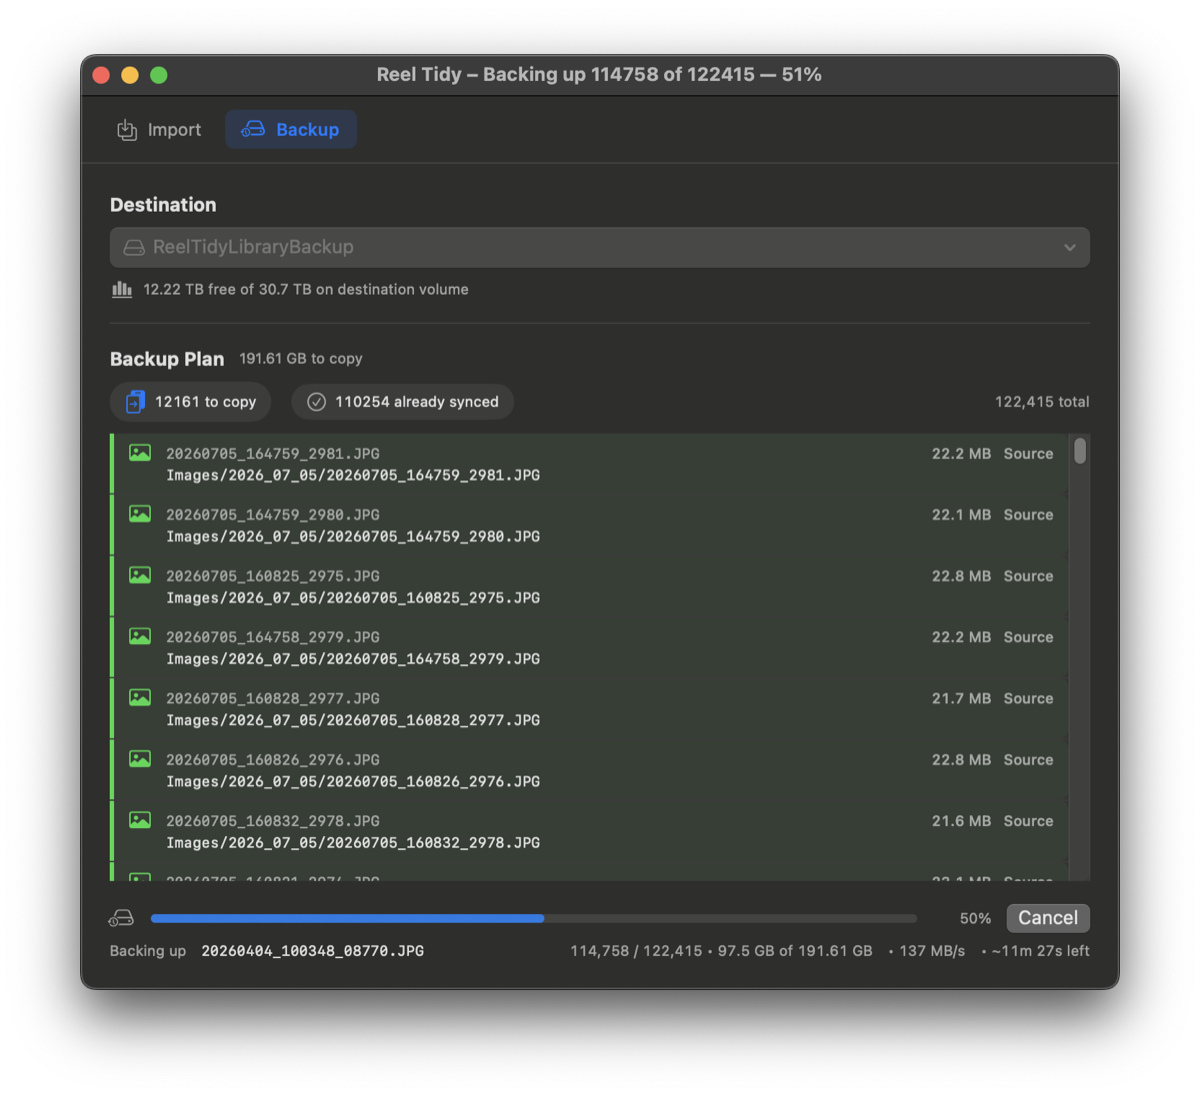
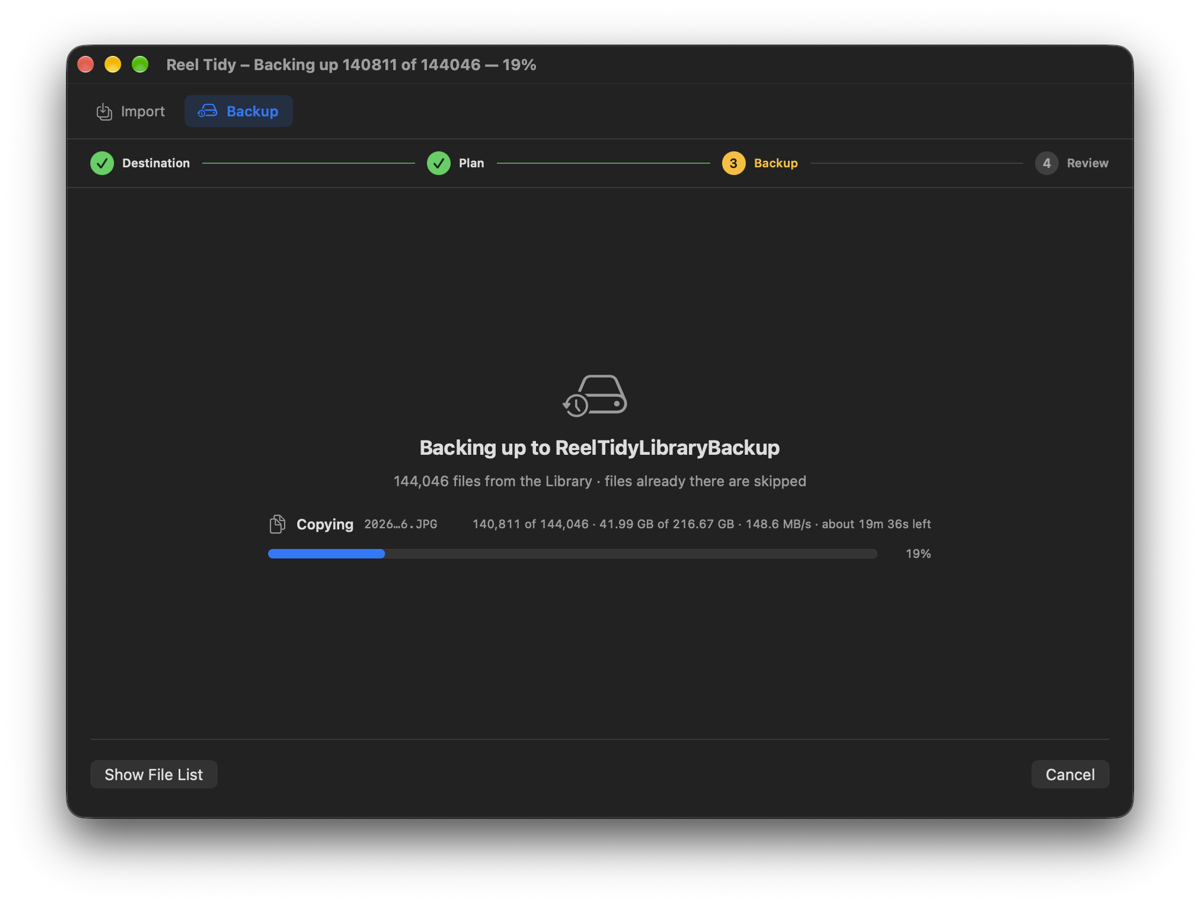
Replace the carousel screenshots with the four-step flow
Re-shot import-progress, source-picker and backup-plan against the
1.2 guided Import / Backup flow (step rail, centred progress hero).
All three are 1200×906 windows on transparency; width/height and alt
text updated to match what the new shots actually show. Slide 1's
headline becomes "Every file. One click." — the old file count came
from the previous capture and no longer appears in the artwork.

diff --git a/index.html b/index.html
@@ -133,12 +133,12 @@
           <div class="carousel__slide" role="group" aria-roledescription="slide" aria-label="1 of 4">
             <div class="carousel__text">
               <p class="carousel__eyebrow">Import</p>
-              <h3>2,686 files. One click.</h3>
+              <h3>Every file. One click.</h3>
               <p class="carousel__sub">Live speed and an honest ETA. Optional compression runs alongside the copy, so a second pass over the shoot costs you nothing.</p>
             </div>
             <div class="carousel__media">
-              <img src="assets/screenshots/import-progress.png" width="1200" height="982"
-                   alt="An import in progress. The window title reads &quot;Reel Tidy — Importing 42 of 2686&quot;. Each JPEG is listed beside the dated path it is being copied to, with a progress bar reporting 426.5 MB/s and about 2 minutes 26 seconds left, and a second bar showing compression running in parallel.">
+              <img src="assets/screenshots/import-progress.png" width="1200" height="906"
+                   alt="An import in progress on the third step of the four-step flow, with Source and Plan ticked off in the rail above. The window title reads &quot;Reel Tidy — Importing 4 of 15 — 24%&quot;. A blue bar reports the copy at 70.4 MB/s with about 4 seconds left, and a purple bar below it shows compression running in parallel, 3 of 4 images done and 37.5 MB smaller so far.">
             </div>
           </div>
 
@@ -161,8 +161,8 @@
               <p class="carousel__sub">SD, CFexpress, USB, or any folder on disk. You choose the source, Reel Tidy scans it and shows you the plan before it writes anything.</p>
             </div>
             <div class="carousel__media">
-              <img src="assets/screenshots/source-picker.png" width="1200" height="1096" loading="lazy"
-                   alt="The source picker open, listing connected external volumes alongside options to select any folder or browse all mounted volumes.">
+              <img src="assets/screenshots/source-picker.png" width="1200" height="906" loading="lazy"
+                   alt="The Import tab on its first step, Source, with the four-step rail (Source, Plan, Import, Review) across the top. The source picker is open, listing connected external volumes alongside options to select any folder or browse all mounted volumes.">
             </div>
           </div>
 
@@ -173,8 +173,8 @@
               <p class="carousel__sub">Mirror the library to another drive. No backup software, no hassle — and every re-run skips what is already there.</p>
             </div>
             <div class="carousel__media">
-              <img src="assets/screenshots/backup-plan.png" width="1200" height="1096" loading="lazy"
-                   alt="The Backup tab midway through a run, backing up 114,758 of 122,415 files at 137 MB/s. A counter shows 12,161 files still to copy against 110,254 already synced from previous runs.">
+              <img src="assets/screenshots/backup-plan.png" width="1200" height="906" loading="lazy"
+                   alt="The Backup tab on its third step, with Destination and Plan ticked off in the rail above. The window title reads &quot;Reel Tidy — Backing up 140811 of 144046 — 19%&quot;; a single progress bar reports 41.99 GB of 216.67 GB copied at 148.6 MB/s with about 19 minutes left, and a note that files already there are skipped.">
             </div>
           </div>
 
